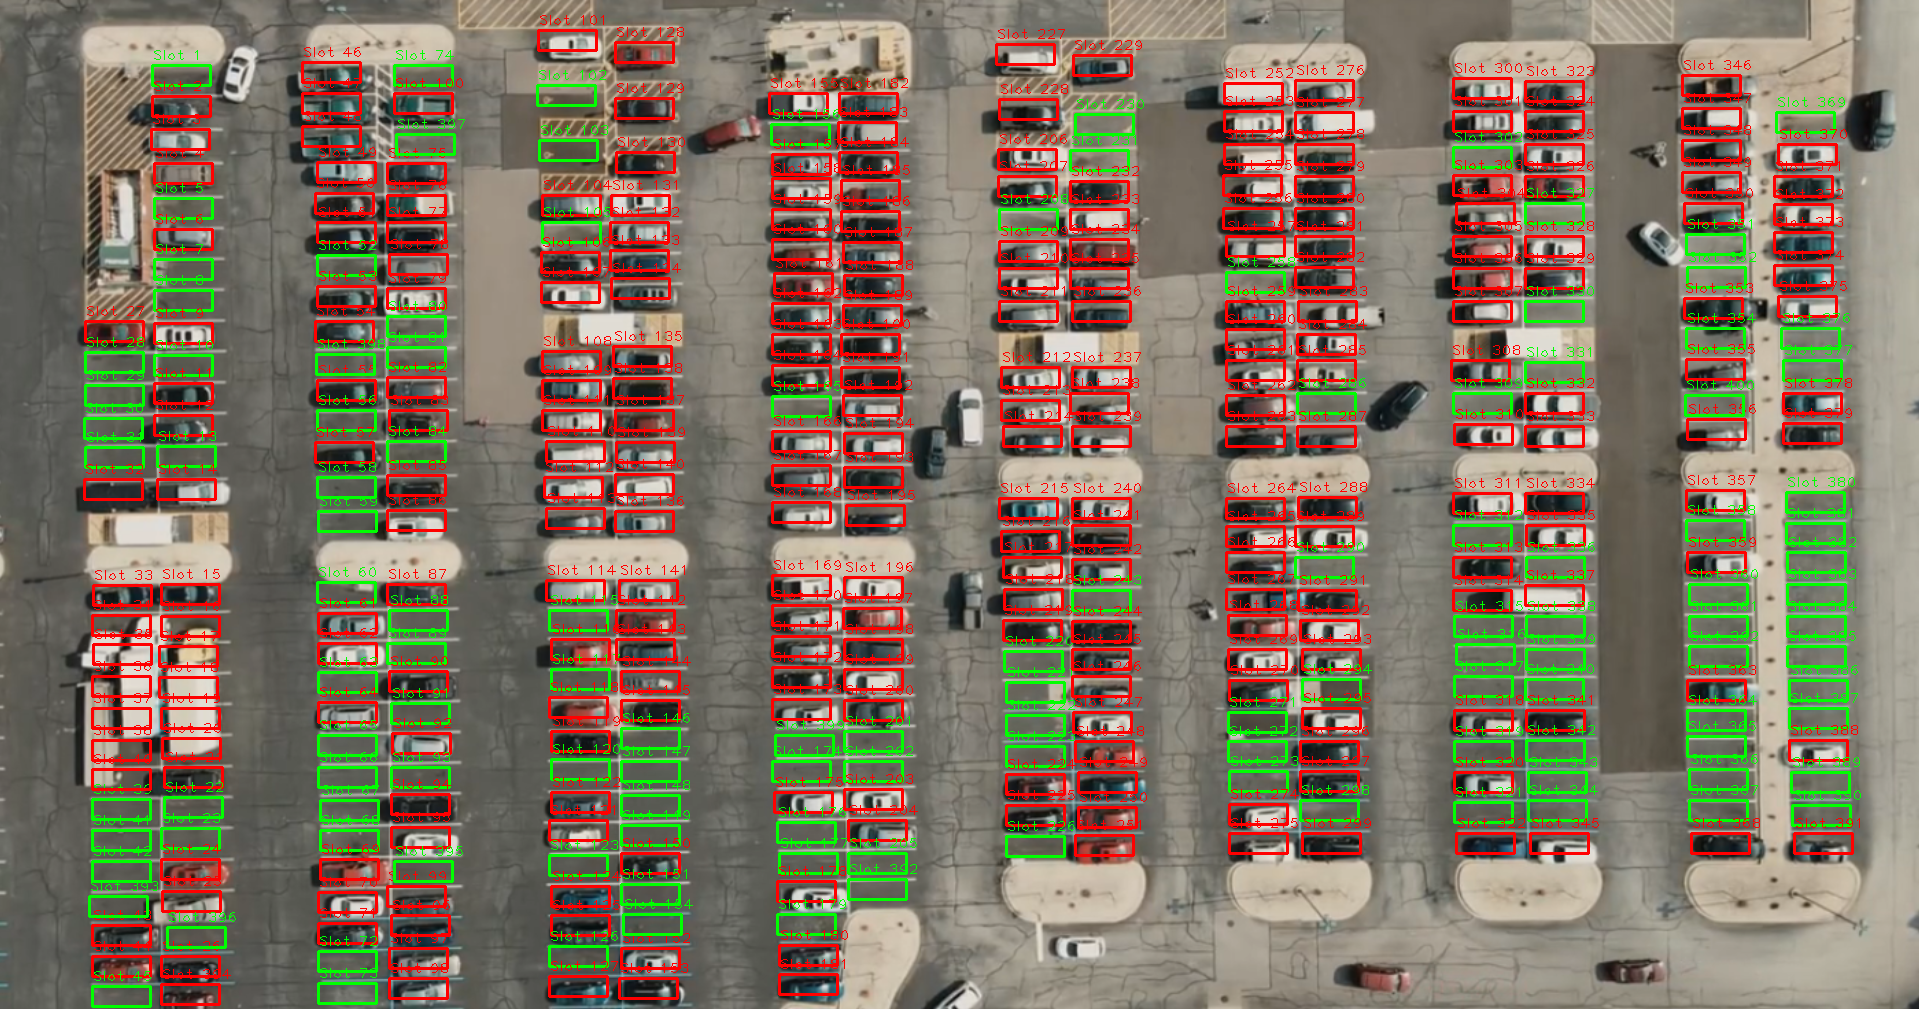
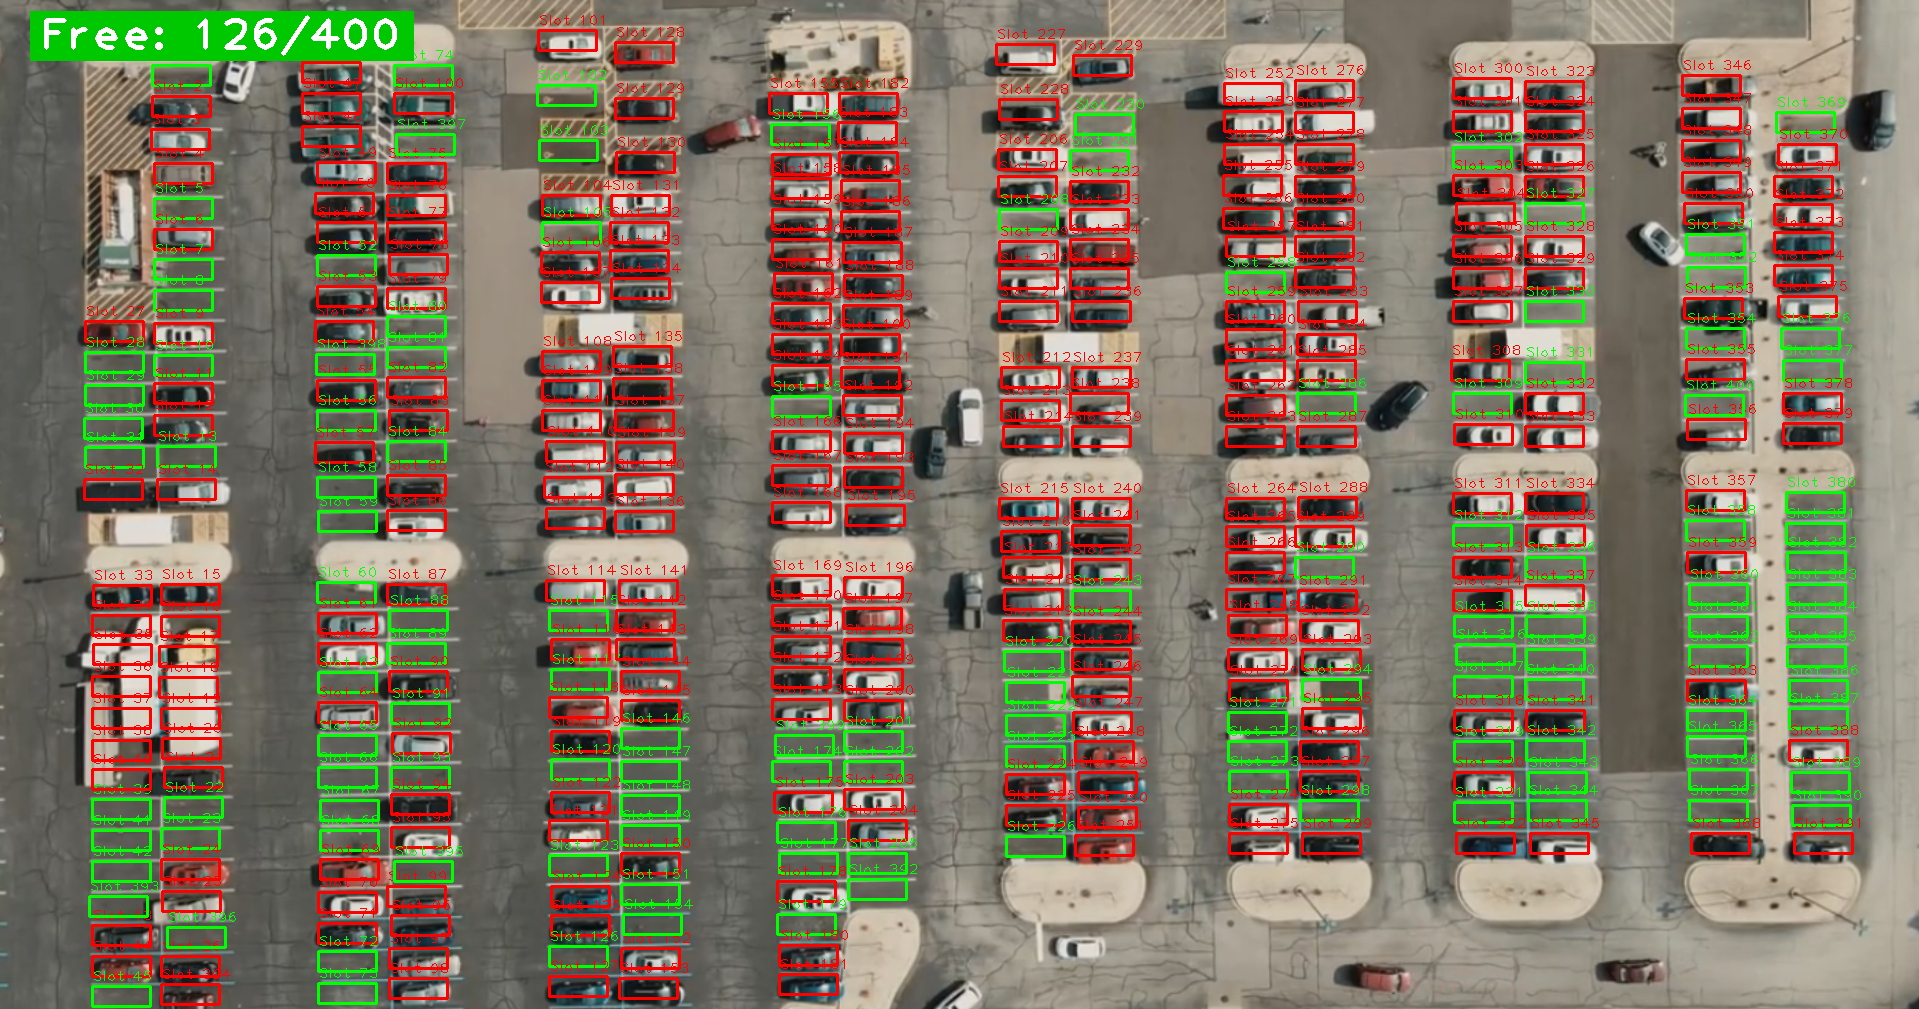
Day-8, Just made some changes to make the out imgae look better

Changed region(s): [[0.0, 0.0, 0.2152, 0.0614]]

diff --git a/v1.1_ParkingSlotDetector_CCA/parking_slot_status_detector.py b/v1.1_ParkingSlotDetector_CCA/parking_slot_status_detector.py
@@ -2,6 +2,7 @@ import cv2
 import numpy as np
 import pandas as pd
 import os
+import cvzone
 import csv
 
 # === PARAMETERS ===
@@ -87,6 +88,15 @@ for _, row in slot_data.iterrows():
         occupied_slots.append(sid)
     else:
         free_slots.append(sid)
+
+# === Count Summary ===
+total_slots = len(occupied_slots) + len(free_slots)
+occupied_count = len(occupied_slots)
+free_count = len(free_slots)
+
+# === Overlay Summary Text ===
+summary_text = f"Free: {free_count}/{total_slots}"
+cvzone.putTextRect(final_img, summary_text, (40, 50), thickness=3, offset=10, colorR=(0, 200, 0))
 
 # === Save Final Annotated Image ===
 cv2.imwrite("output/parking_slot_status.png", final_img)
